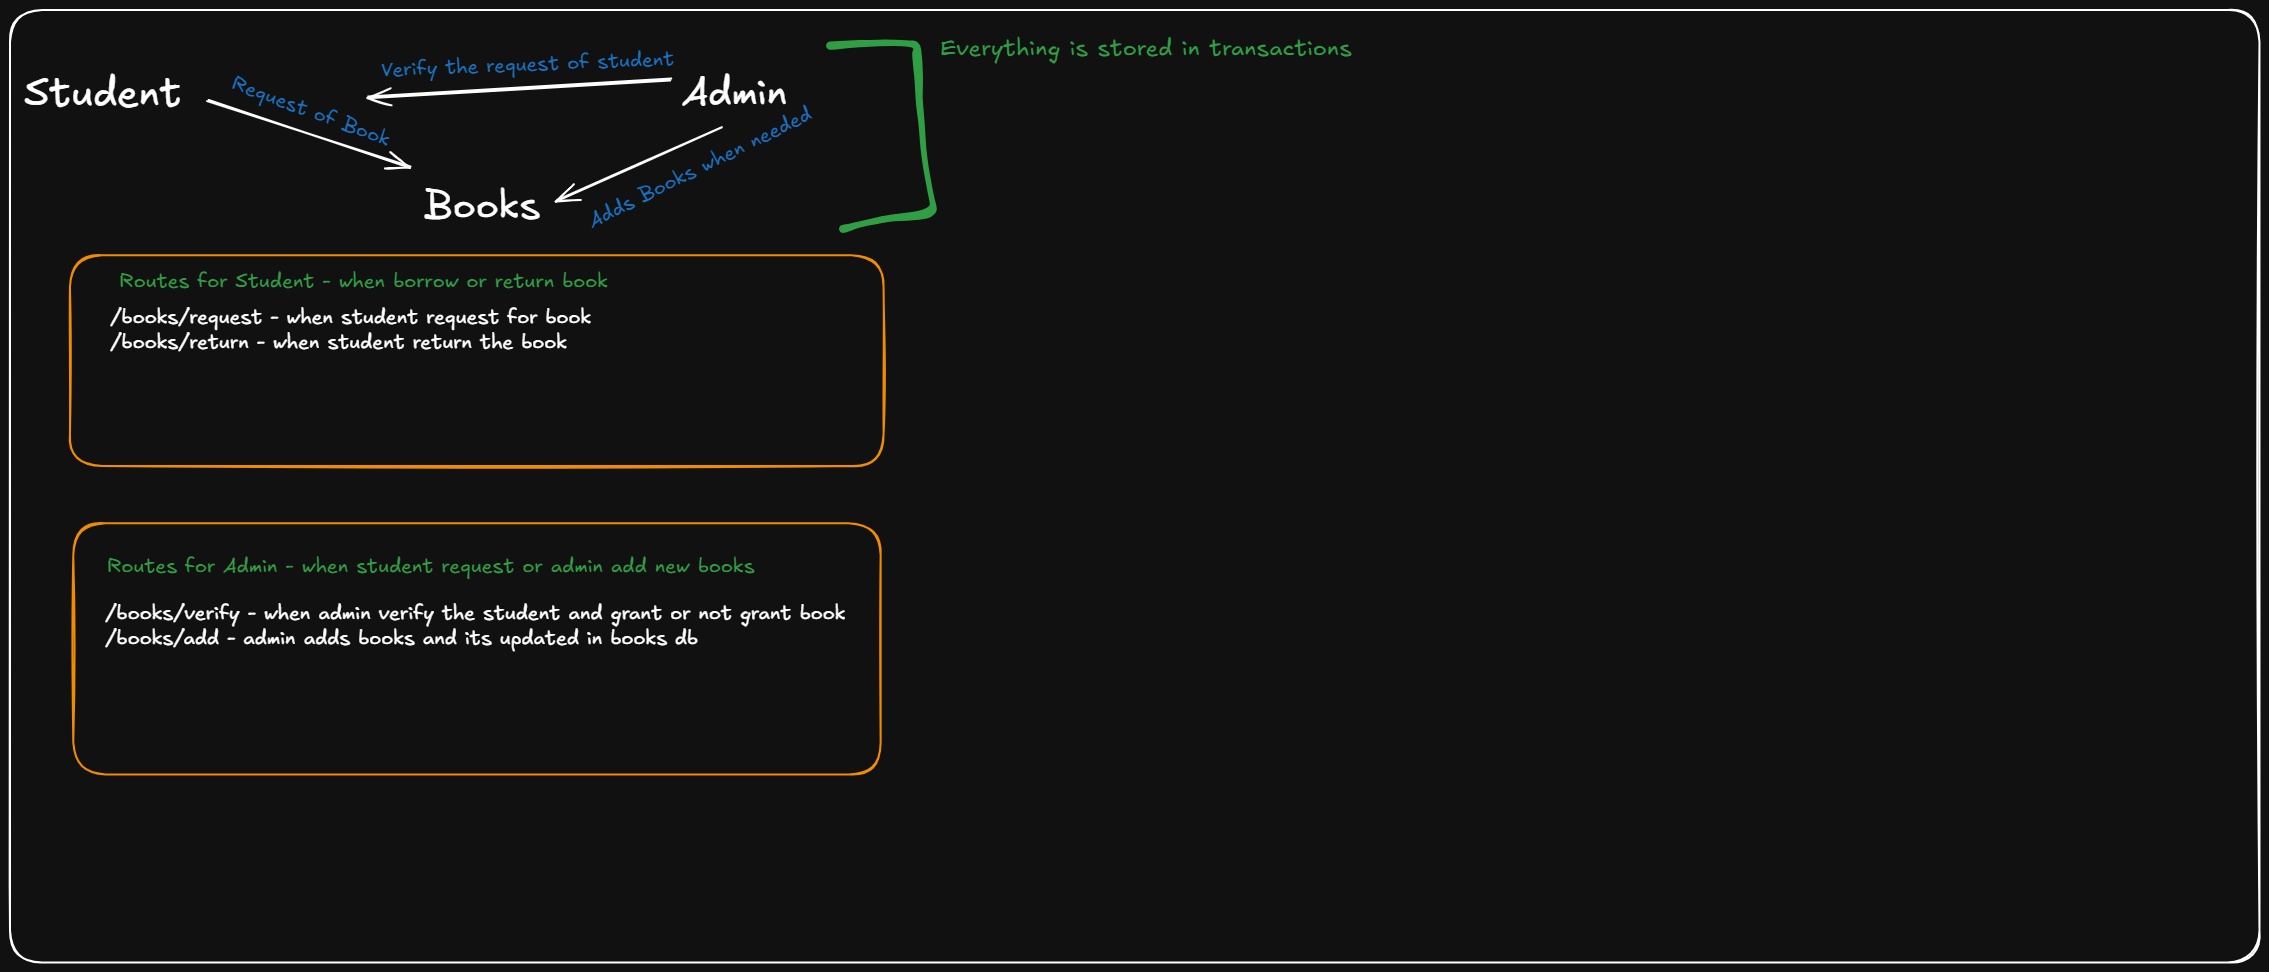
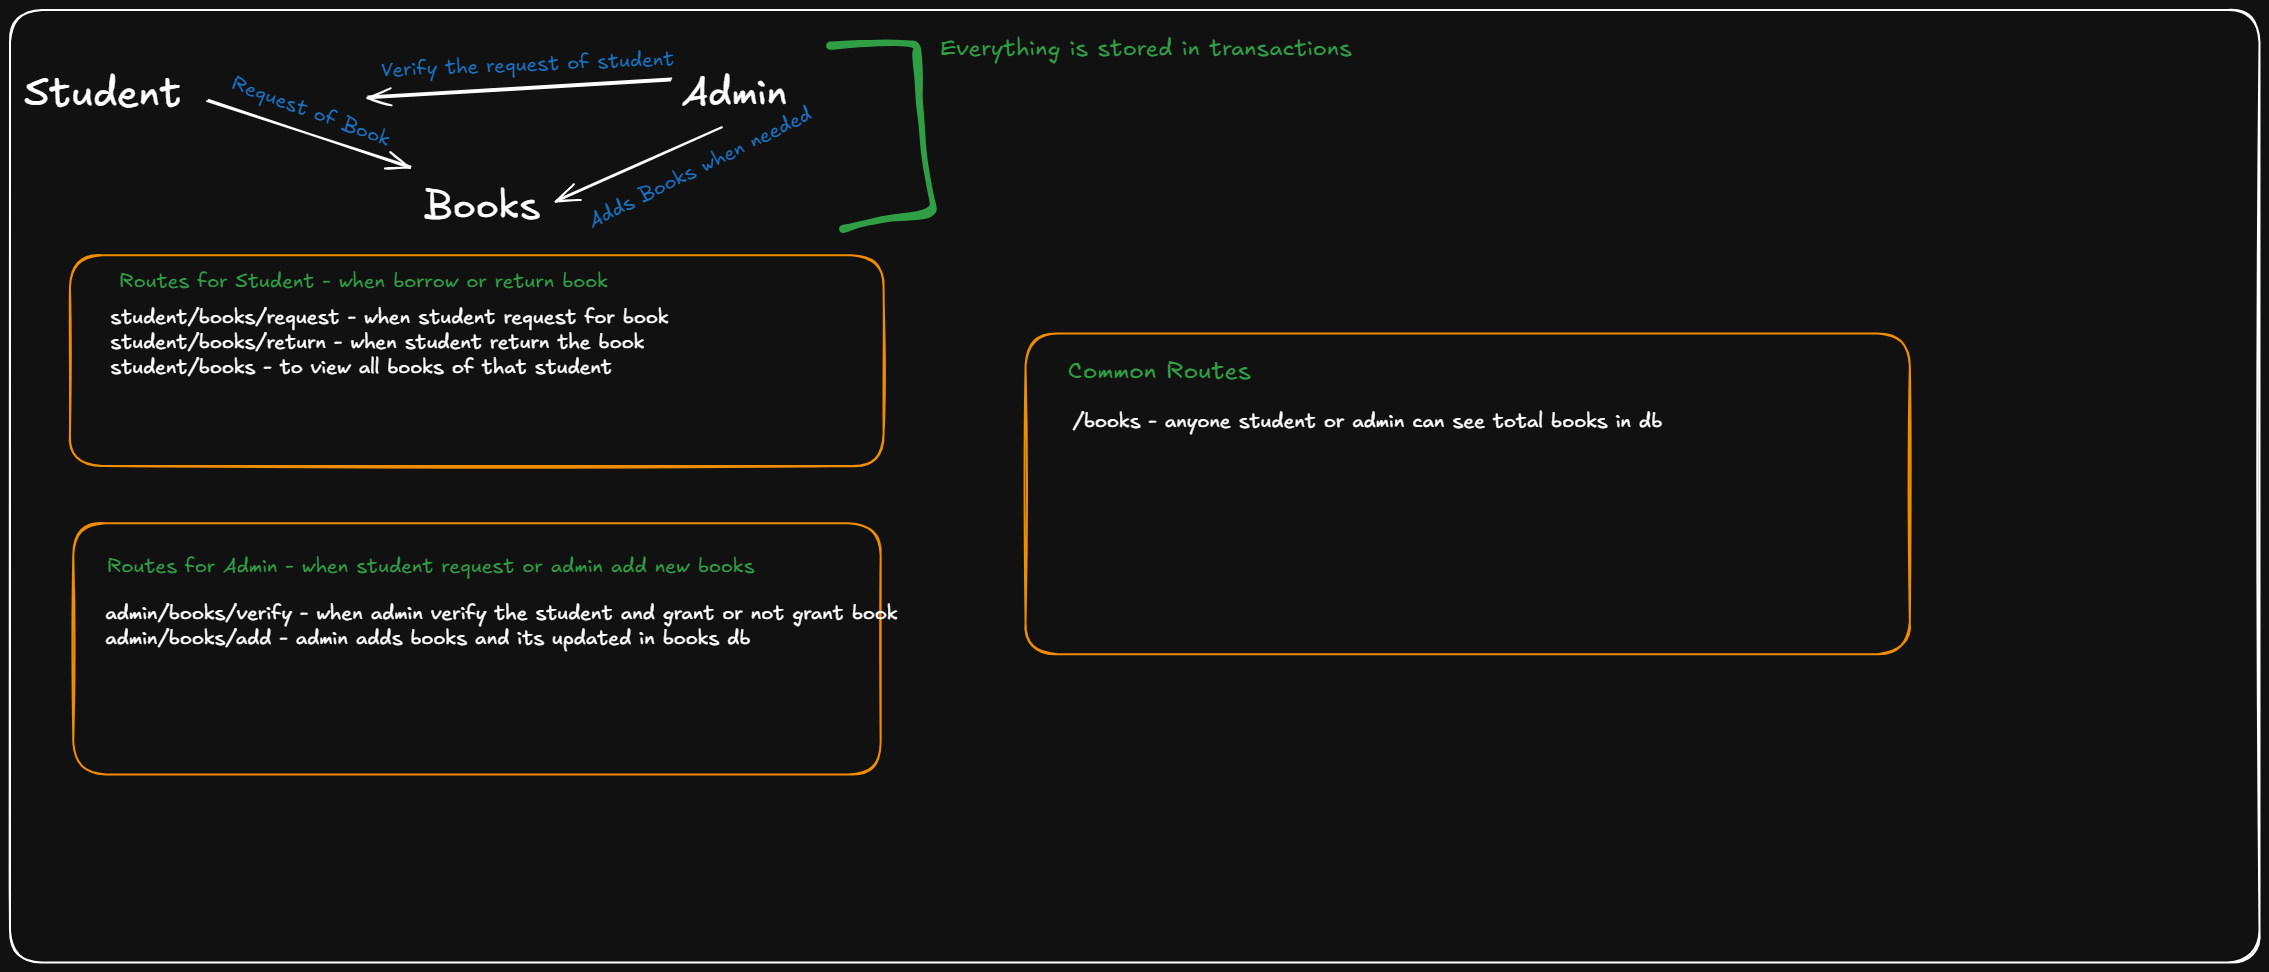
Added some books routes

diff --git a/Backend/src/controller/book.controller.js b/Backend/src/controller/book.controller.js
@@ -1,0 +1,35 @@
+import { Book } from "../models/book.model.js"
+
+const addBook = async (req, res) => {
+    const { title, total_copies, price } = req.body
+    if (!title || !total_copies || !price) {
+        return res.status(500).json({ error: "Book title, copies, and price is required" })
+    }
+    const bookAdded = await Book.create({
+        title: title,
+        total_copies: total_copies,
+        available_copies: total_copies,
+        price: price
+    })
+    if (!bookAdded) {
+        return res.status(501).json({ error: "Something went wrong ..." })
+    }
+
+    return res.status(200).json(bookAdded)
+
+}
+
+const getBooks = async (req, res) => {
+    try {
+        const allBookData = await Book.find()
+        return res.status(200).json({
+            message: "Books fetched successfully!",
+            books: allBookData
+        })
+    } catch (error) {
+        return res.status(500).json({ error: "Could not fetch books from database" })
+    }
+
+}
+
+export { addBook, getBooks }

diff --git a/Backend/src/routes/admin.route.js b/Backend/src/routes/admin.route.js
@@ -1,0 +1,14 @@
+import { Router } from "express"
+import {registerAdmin,loginAdmin,refreshAccessToken,logoutAdmin} from "../controller/admin.controller.js"
+import { verifyJWT } from "../middleware/admin.middleware.js"
+import { addBook } from "../controller/book.controller.js"
+const router = Router()
+
+router.route("/register").post(registerAdmin)
+router.route("/login").post(loginAdmin)
+router.route("/regentokens").post(refreshAccessToken)
+router.route("/logout").post(verifyJWT,logoutAdmin)
+
+router.route("/books/add").post(verifyJWT,addBook)
+
+export default router

diff --git a/Backend/src/controller/admin.controller.js b/Backend/src/controller/admin.controller.js
@@ -94,8 +94,8 @@ const refreshAccessToken = async(req,res)=>{
             secure: true
         }
 
-        const accTok = studentByToken.genAccToken()
-        const refTok = studentByToken.genRefToken()
+        const accTok = adminByToken.genAccToken()
+        const refTok = adminByToken.genRefToken()
 
         adminByToken.refreshToken = refTok
         await adminByToken.save({ validateBeforeSave: false })
@@ -139,4 +139,4 @@ const logoutAdmin = async(req,res)=>{
 
 
 
-export { registerAdmin,loginAdmin,refreshAccessToken }
+export { registerAdmin,loginAdmin,refreshAccessToken,logoutAdmin }

diff --git a/Backend/src/middleware/admin.middleware.js b/Backend/src/middleware/admin.middleware.js
@@ -1,4 +1,4 @@
-import { Admin } from "../models/admin.model";
+import { Admin } from "../models/admin.model.js";
 import jwt from "jsonwebtoken"
 
 export const verifyJWT = async(req,res,next)=>{
@@ -13,11 +13,11 @@ export const verifyJWT = async(req,res,next)=>{
         const adm = await Admin.findById(decodeToken?._id).select("-password -refreshToken")
 
         if (!adm) {
-            return res.status(401).json({error:"Student is not present"})
+            return res.status(401).json({error:"Admin is not present"})
         }
         req.user=adm
         next()
     } catch (error) {
-        return res.status(401).json({error:"Student is not present"})
+        return res.status(401).json({error:"Admin is not present"})
     }
 }

diff --git a/Backend/index.js b/Backend/index.js
@@ -4,6 +4,8 @@ import dotenv from "dotenv"
 import cookieParser from "cookie-parser"
 import connectDB from "./src/db/db.js"
 import studentRoute from "./src/routes/student.route.js"
+import adminRoute from "./src/routes/admin.route.js"
+import { getBooks } from "./src/controller/book.controller.js"
 const app = express()
 
 dotenv.config({
@@ -14,9 +16,11 @@ app.use(cors())
 app.use(cookieParser())
 
 app.use("/student",studentRoute)
+app.use("/admin",adminRoute)
 // app.get("/",(req,res)=>{
 //     res.send("Hello world")
 // })
+app.get("/books",getBooks)
 
 connectDB().then(() => {
     app.listen(process.env.PORT || 8000, () => {

diff --git a/Backend/src/models/admin.model.js b/Backend/src/models/admin.model.js
@@ -57,4 +57,4 @@ adminSchema.methods.genRefToken = function () {
     )
 }
 
-export const Admin = mongoose.Schema("Admin", adminSchema)
+export const Admin = mongoose.model("Admin", adminSchema)

diff --git a/Backend/src/models/book.model.js b/Backend/src/models/book.model.js
@@ -20,4 +20,4 @@ const bookSchema = new mongoose.Schema({
     }
 })
 
-export const Book = mongoose.Schema("Book",bookSchema)
+export const Book = mongoose.model("Book",bookSchema)